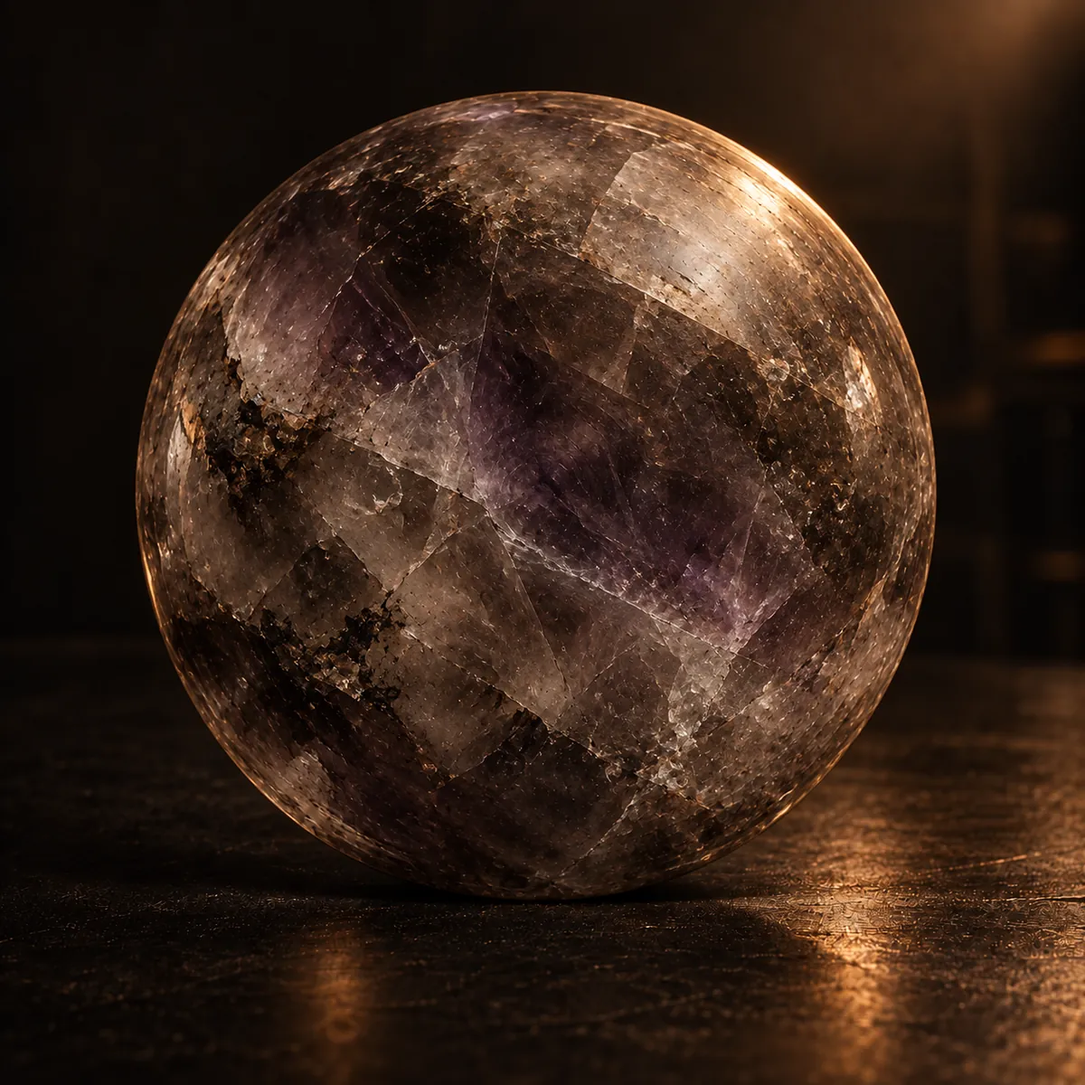
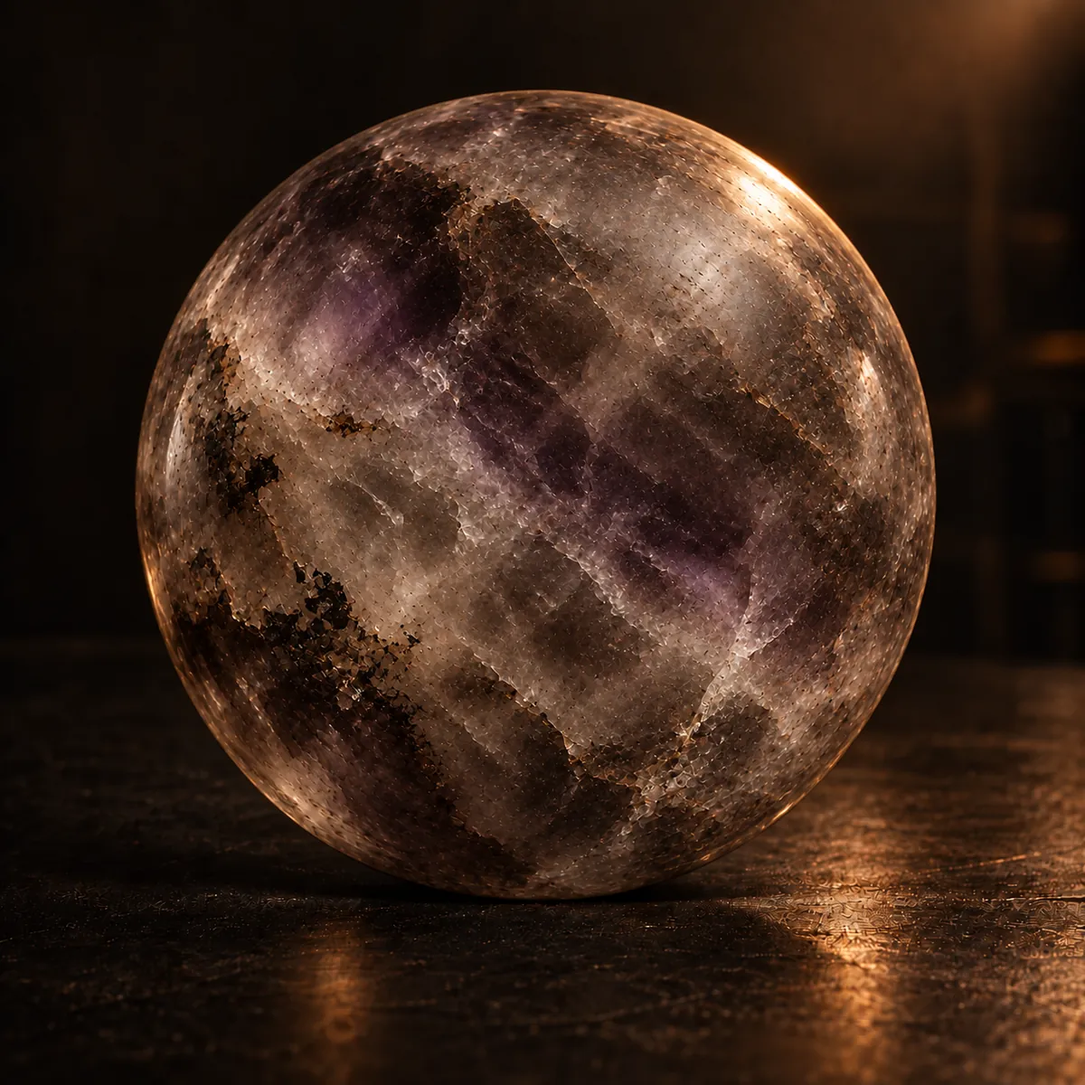
feat: projectExplorer bileşen EN/TR localization files ve showroom media assets eklendi

Changed region(s): [[0.1233, 0.0617, 0.8633, 0.8325], [0.7092, 0.8017, 0.8633, 0.8942], [0.925, 0.8325, 1.0, 0.8942]]

diff --git a/platform/components/Home/ProjectExplorer.module.css b/platform/components/Home/ProjectExplorer.module.css
@@ -1,155 +1,118 @@
 .home {
-  --color-text-primary: #f4ede3;
-  --color-text-secondary: #c8b9a7;
-  --color-background: #0b0a08;
-  --color-surface: #15110e;
-  --color-border: #352c21;
-  --ink: #f4ede3;
-  --muted: #c8b9a7;
-  --gold: #d5ad70;
-  background: var(--color-background);
+  --ink: #f3e9d8;
+  --muted: #c2b09b;
+  --amber: #d6ab6b;
   color: var(--ink);
+  background: #100d0a;
   font-family: var(--font-family-base);
 }
-.home h1, .home h2 { color: inherit; font-weight: 400; text-shadow: none; text-transform: none; }
-.home a:focus-visible, .home button:focus-visible, .home input:focus-visible {
-  outline: 2px solid var(--gold); outline-offset: 5px;
-}
-.home button { font: inherit; cursor: pointer; }
-.home ::selection { background: #d5ad70; color: #171009; }
+.home h1, .home h2 { color: inherit; text-shadow: none; text-transform: none; font-weight: 400; }
+.home a:focus-visible, .home button:focus-visible { outline: 2px solid #f2cc87; outline-offset: 5px; }
+.home ::selection { background: #d6ab6b; color: #100d0a; }
 :global(body):has(.journey) { overflow-x: clip; }
-.journey { --travel: 0; height: 420svh; position: relative; }
-.stage {
-  height: 100svh; min-height: 740px; position: sticky; top: 0;
-  overflow: clip; isolation: isolate; background: #100d0a;
-}
-.cosmos { position: absolute; inset: 0; z-index: -1; overflow: hidden; pointer-events: none; }
-.cosmos::before {
-  content: ''; position: absolute; inset: 0;
-  background: radial-gradient(ellipse at 66% 48%, #6c421e40, transparent 58%),
-    linear-gradient(135deg, #1e150e, #100d0a 48%, #19120c);
-}
-.nebula {
-  position: absolute; width: 130%; height: 65%; left: -15%; top: 16%;
-  background: url('/images/auris/hero-wave.webp') center / cover no-repeat;
-  opacity: .12; mix-blend-mode: screen;
-  mask-image: linear-gradient(transparent, black 40%, black 60%, transparent);
-  transform: rotate(-20deg) translateX(calc(var(--travel) * -5%));
-}
-.stars { position: absolute; inset: 0; width: 100%; height: 100%; transform: scale(calc(1 + var(--travel) * .12)); }
-.identity { position: absolute; top: 125px; left: 5vw; width: 35%; z-index: 15; pointer-events: none; }
-.identity h1 { font-family: var(--font-family-heading); font-size: clamp(38px, 4.8vw, 78px); letter-spacing: -.035em; line-height: 1.05; margin: 0 0 18px; }
-.identity p { color: var(--muted); max-width: 30ch; font-size: 17px; line-height: 1.55; }
-.skip { position: absolute; top: 128px; right: 5vw; z-index: 15; font-size: 13px; color: var(--muted); display: flex; align-items: center; gap: 12px; }
-.orbit { position: absolute; left: 29%; top: 16%; width: 70%; height: 73%; }
-.paths { width: 100%; height: 100%; position: absolute; inset: 0; fill: none; stroke: #b38a5040; stroke-width: .7; }
-.paths ellipse:nth-child(2) { stroke-dasharray: 2 9; opacity: .7; }
-.paths ellipse:nth-child(3) { opacity: .35; }
-.paths path { stroke: #c3a16a20; }
-.nucleus { position: absolute; left: 50%; top: 46%; width: clamp(105px, 15vw, 230px); aspect-ratio: 1; transform: translate(-50%, -50%); text-align: center; pointer-events: none; mix-blend-mode: screen; }
-.nucleus img { width: 100%; height: 100%; object-fit: contain; mix-blend-mode: screen; filter: grayscale(1) contrast(2) sepia(.5); opacity: .85; }
-.nucleus span { position: absolute; left: 0; right: 0; bottom: 0; font-size: 13px; color: #d1b887; letter-spacing: .04em; }
-.nucleusLight { position: absolute; inset: 8%; border-radius: 50%; background: radial-gradient(circle, #b9873c14, #a97b3110 45%, transparent 70%); border: 1px solid #ad854225; }
-.world { position: absolute; width: clamp(88px, 8.5vw, 132px); display: flex; flex-direction: column; align-items: center; color: var(--ink); text-decoration: none; -webkit-tap-highlight-color: transparent; }
-.planet { position: relative; width: 82%; aspect-ratio: 1; display: block; border-radius: 50%; background: var(--tone); isolation: isolate; box-shadow: 15px 20px 35px #0009; transition: filter .2s; }
-.surface {
-  position: absolute; inset: 0; border-radius: 50%; overflow: hidden;
-  background: url('/images/showroom/mineral.svg') 0 50% / 220% 100%;
-  mix-blend-mode: multiply;
-}
-.surface::before { content: ''; position: absolute; inset: 0; background: repeating-linear-gradient(168deg, transparent 0 10%, #33231350 13%, #f9eac533 15%, transparent 19%); }
-.planet[data-texture='cloud'] .surface { filter: contrast(.65); transform: rotate(35deg); }
-.planet[data-texture='mineral'] .surface { filter: contrast(1.7); }
-.planet[data-texture='sand'] .surface::before { transform: rotate(-30deg); opacity: .7; }
-.planet[data-texture='sound'] .surface::before { background: repeating-linear-gradient(172deg, #34200c60 0 4%, transparent 6% 13%, #f6d98b60 15% 17%); }
-.shade { position: absolute; inset: -1px; border-radius: 50%; background: radial-gradient(circle at 25% 22%, #fff7d965, transparent 40%, #120c0680 65%, #090704 91%); box-shadow: inset 2px 1px 3px #fff0c944, inset -6px -8px 12px #0008; }
-.planetRing { position: absolute; width: 170%; height: 52%; left: -35%; top: 27%; border: 7px double color-mix(in srgb, var(--tone), transparent 18%); border-radius: 50%; transform: rotate(-27deg); box-shadow: 0 3px 4px #0007; mask-image: linear-gradient(transparent 46%, black 49%); }
-.worldName { display: flex; align-items: center; justify-content: center; gap: 5px; white-space: nowrap; font-size: 14px; margin-top: 16px; text-shadow: 0 2px 6px #000; }
-.worldName svg { opacity: 0; transition: opacity .2s; }
-.world[data-selected='true'] .worldName { color: #f4d59e; }
-.world[data-selected='true'] .worldName svg, .world:hover .worldName svg { opacity: 1; }
-.world[data-selected='true'] .planet { outline: 1px solid #d5ad7090; outline-offset: 8px; }
-.world:hover .planet { filter: brightness(1.18); }
-.projectInfo { position: absolute; left: 5vw; bottom: 145px; width: min(29%, 370px); z-index: 16; }
-.projectHeading { display: flex; align-items: center; gap: 12px; margin-bottom: 17px; }
-.projectHeading h2 { font-family: var(--font-family-base); font-size: clamp(29px, 3vw, 46px); letter-spacing: -.025em; line-height: 1.1; margin: 0; }
-.projectDot { width: 7px; height: 7px; border-radius: 50%; flex-shrink: 0; }
-.projectInfo > p { font-size: 16px; line-height: 1.65; color: var(--muted); min-height: 80px; max-width: 36ch; }
-.openProject { display: inline-flex; align-items: center; gap: 28px; padding: 12px 0; margin-top: 14px; border-bottom: 1px solid #d5ad7080; font-size: 17px; }
-.controls { position: absolute; bottom: 30px; left: 5vw; right: 5vw; z-index: 20; display: flex; align-items: center; justify-content: space-between; gap: 24px; }
-.steering, .actions { display: flex; align-items: center; gap: 14px; }
-.controls button, .directoryTop button { background: transparent; color: var(--ink); border: 1px solid #b898623b; height: 44px; min-width: 44px; display: inline-flex; align-items: center; justify-content: center; gap: 10px; border-radius: 50%; }
-.controls button:hover { background: #d5ad7014; border-color: var(--gold); }
-.steering > span { font-size: 14px; min-width: 40px; text-align: center; font-variant-numeric: tabular-nums; }
-.actions button:last-child { padding: 0 18px; border-radius: 24px; font-size: 14px; }
-.scrollHint { font-size: 13px; color: var(--muted); display: flex; gap: 12px; align-items: center; }
-.directory { position: absolute; top: 105px; bottom: 95px; right: 4vw; width: min(440px, 92vw); padding: 28px; background: #19130cf5; border: 1px solid #6a5032; z-index: 30; overflow: auto; box-shadow: -20px 25px 80px #0009; border-radius: 8px; }
-.directoryTop { display: flex; align-items: center; justify-content: space-between; gap: 20px; }
-.directoryTop h2 { font-size: 27px; font-family: var(--font-family-base); }
-.search { margin-top: 24px; display: flex; gap: 10px; align-items: center; border-bottom: 1px solid #7b6243; padding: 12px 0; }
-.search input { width: 100%; min-width: 0; border: 0; background: transparent; color: var(--ink); font: inherit; font-size: 16px; caret-color: var(--gold); }
-.search input::placeholder { color: var(--muted); }
-.filters { display: flex; flex-wrap: wrap; gap: 6px 18px; margin-top: 18px; }
-.filters button { padding: 9px 0; border: 0; border-bottom: 1px solid transparent; background: transparent; color: var(--muted); font-size: 14px; }
-.filters button[aria-pressed='true'] { border-color: var(--gold); color: var(--ink); }
-.resultCount { font-size: 12px; color: var(--muted); margin: 20px 0 6px; }
-.directoryLinks a { display: flex; align-items: center; gap: 12px; padding: 17px 0; border-bottom: 1px solid #ffffff12; font-size: 19px; }
-.directoryLinks a > span { width: 12px; height: 12px; border-radius: 50%; }
-.directoryLinks a > svg { margin-left: auto; }
-.empty { padding: 24px 0; }
-.empty button { padding: 12px 16px; margin-top: 18px; color: #17110b; background: var(--gold); border: 0; border-radius: 4px; }
-.exit { padding: 80px 7vw 90px; display: flex; flex-direction: column; align-items: center; text-align: center; gap: 20px; background: linear-gradient(#100d0a, #19120c); scroll-margin-top: 100px; }
-.exit p, .exit > span { font-size: 15px; color: var(--muted); }
-.exit > a { display: inline-flex; align-items: center; gap: 25px; font-size: clamp(28px, 4vw, 54px); }
+.journey { height: 780svh; position: relative; }
+.stage { position: sticky; top: 0; height: 100svh; min-height: 650px; overflow: clip; isolation: isolate; background: #100d0a; }
+.studio, .studioHero, .studioDetail { position: absolute; inset: 0; }
+.studio { z-index: -2; pointer-events: none; }
+.studioHero img, .studioDetail img { object-fit: cover; object-position: center 58%; }
+.studioHero, .studioDetail { transform-origin: 64% 50%; }
+.studioDetail { opacity: 0; }
+.shade { position: absolute; z-index: -1; inset: 0; pointer-events: none; background: linear-gradient(90deg, #100d0aeb 0%, #100d0aa4 27%, transparent 59%), linear-gradient(0deg, #100d0af0 0%, transparent 20%, transparent 78%, #100d0a91 100%); }
+.intro { position: absolute; left: 5.4vw; top: clamp(132px, 19svh, 230px); max-width: 430px; z-index: 4; pointer-events: none; }
+.intro h1 { margin: 0; font-family: var(--font-family-heading); font-size: clamp(54px, 5vw, 72px); line-height: .98; letter-spacing: -.03em; }
+.intro p { margin-top: 23px; max-width: 25ch; font-size: clamp(19px, 1.8vw, 26px); line-height: 1.36; color: var(--ink); }
+.introLink { display: inline-flex; align-items: center; gap: 18px; pointer-events: auto; margin-top: 35px; padding: 9px 0; border-bottom: 1px solid #d6ab6b9c; font-size: 16px; }
+.introLink:hover { color: #f2cc87; }
+.orbit { position: absolute; inset: 0; z-index: 1; pointer-events: none; }
+.specimen { position: absolute; left: var(--x); top: var(--y); width: clamp(80px, 8.4vw, 124px); text-align: center; transform: translate(-50%, -50%); }
+.specimenOrb { display: block; position: relative; width: 100%; aspect-ratio: 1; padding: 0; border: 0; border-radius: 50%; overflow: hidden; background: #21170f; pointer-events: auto; cursor: pointer; transform-origin: center; }
+.specimenOrb img { object-fit: cover; object-position: center; border-radius: 50%; }
+.specimenOrb:hover { outline: 1px solid #f6d18f; outline-offset: 4px; }
+.specimenName { display: block; min-width: 82px; margin: 10px 0 0 50%; color: #efe1c8; font-size: 13px; line-height: 1.2; text-shadow: 0 2px 8px #000; pointer-events: none; white-space: normal; transform: translateX(-50%); }
+.feature { position: absolute; left: 5.4vw; top: 31svh; width: min(410px, 36vw); z-index: 4; }
+.feature h2 { font-family: var(--font-family-heading); font-size: clamp(48px, 5.2vw, 76px); letter-spacing: -.025em; line-height: 1; margin: 0 0 24px; }
+.feature > p { max-width: 35ch; font-size: clamp(17px, 1.45vw, 21px); line-height: 1.5; color: #e6d8c5; }
+.feature ul { display: flex; flex-wrap: wrap; gap: 7px 20px; margin: 25px 0 0; padding: 0; list-style: none; }
+.feature li { font-size: 13px; color: #c6ac87; }
+.feature li + li::before { content: '/'; margin-right: 20px; color: #785d40; }
+.featureActions { display: flex; align-items: center; flex-wrap: wrap; gap: 12px 25px; margin-top: 30px; }
+.featureActions a { display: inline-flex; align-items: center; gap: 25px; padding: 9px 0; font-size: 18px; border-bottom: 1px solid #d6ab6b; }
+.featureActions a:hover { color: #f2cc87; }
+.featureActions > span { color: #ab9276; font-size: 13px; }
+.rail { position: absolute; bottom: 28px; left: 5.4vw; right: 5.4vw; z-index: 5; display: flex; align-items: center; gap: clamp(14px, 2.3vw, 39px); overflow-x: auto; overflow-y: hidden; scrollbar-width: thin; scrollbar-color: #7b644a transparent; white-space: nowrap; padding: 17px 1px; }
+.rail button { flex: 0 0 auto; padding: 0 0 8px; border: 0; border-bottom: 1px solid transparent; background: transparent; color: #b9a992; font: inherit; font-size: 14px; cursor: pointer; }
+.rail button:hover, .rail button[aria-current='true'] { color: var(--ink); border-bottom-color: var(--amber); }
+.scrollCue { position: absolute; right: 5.4vw; bottom: 102px; z-index: 4; display: flex; gap: 11px; align-items: center; color: #c4ad8f; font-size: 14px; pointer-events: none; }
+.index { position: relative; overflow: clip; padding: 105px 5.4vw 110px; background: linear-gradient(180deg, #100d0a 0%, #16110c 55%, #100d0a 100%); scroll-margin-top: 96px; }
+.index::before { content: ''; position: absolute; z-index: 0; top: -5%; right: -22%; width: 72%; height: 60%; background: url('/images/showroom/tape-study.webp') center / cover no-repeat; opacity: .08; pointer-events: none; transform: rotate(-16deg); }
+.index > * { position: relative; z-index: 1; }
+.indexLead { display: flex; justify-content: space-between; align-items: end; gap: 40px; border-bottom: 1px solid #a98b6347; padding-bottom: 26px; }
+.indexLead h2 { font-family: var(--font-family-heading); font-size: clamp(43px, 5vw, 72px); letter-spacing: -.025em; line-height: 1.05; }
+.indexLead p { max-width: 31ch; color: var(--muted); font-size: 16px; line-height: 1.5; }
+.indexList { display: grid; grid-template-columns: repeat(2, minmax(0, 1fr)); column-gap: 7vw; }
+.indexList a { display: flex; min-width: 0; align-items: center; gap: 18px; padding: 24px 0; border-bottom: 1px solid #a98b6338; }
+.indexList a:hover { color: #f2cc87; }
+.indexImage { position: relative; flex: 0 0 62px; width: 62px; height: 62px; border: 1px solid #b795638a; border-radius: 50%; overflow: hidden; }
+.indexImage img { object-fit: cover; }
+.indexCopy { display: flex; flex-direction: column; gap: 3px; min-width: 0; }
+.indexCopy strong { font-size: 22px; font-weight: 400; line-height: 1.2; }
+.indexCopy > span { color: var(--muted); font-size: 14px; line-height: 1.4; }
+.indexList a > svg { margin-left: auto; flex-shrink: 0; color: #d6ab6b; }
+.musicBridge { display: flex; flex-direction: column; align-items: center; text-align: center; gap: 12px; padding-top: 120px; }
+.musicBridge p { color: var(--muted); font-size: 17px; }
+.musicBridge a { display: inline-flex; align-items: center; gap: 20px; font-family: var(--font-family-heading); font-size: clamp(30px, 4.5vw, 60px); border-bottom: 1px solid #aa824f; padding: 0 0 12px; }
+.musicBridge a:hover { color: #f2cc87; }
 .srOnly { position: absolute; width: 1px; height: 1px; padding: 0; margin: -1px; overflow: hidden; clip-path: inset(50%); white-space: nowrap; }
 
-@media (prefers-reduced-motion: no-preference) {
-  .surface { animation: surfaceDrift 65s linear infinite; }
-  .journey[data-paused='true'] .surface { animation-play-state: paused; }
-}
-@keyframes surfaceDrift { to { background-position: 220% 50%; } }
-@media (max-width: 1050px) {
-  .identity { width: 48%; }
-  .orbit { left: 23%; width: 77%; top: 20%; height: 66%; }
-  .world { width: 100px; }
-  .projectInfo { width: 30%; }
-  .scrollHint { display: none; }
+@media (max-width: 900px) {
+  .feature { top: 30svh; width: min(400px, 44vw); }
+  .indexList { column-gap: 3vw; }
 }
 @media (max-width: 700px) {
-  .journey { height: 340svh; }
-  .stage { min-height: 740px; }
-  .identity { top: 105px; left: 6vw; width: 88%; }
-  .identity h1 { font-size: clamp(30px, 8.7vw, 48px); margin-bottom: 10px; }
-  .identity p { font-size: 14px; max-width: none; }
-  .skip { top: 84px; right: 6vw; font-size: 11px; }
-  .orbit { left: 0; top: 24%; width: 100%; height: 45%; }
-  .world { width: 65px; }
-  .planet { width: 66%; }
-  .worldName { font-size: 11px; margin-top: 11px; gap: 2px; }
-  .worldName svg { width: 10px; }
-  .planetRing { border-width: 4px; }
-  .nucleus { width: 105px; }
-  .nucleus span { font-size: 10px; }
-  .projectInfo { left: 6vw; right: 6vw; width: auto; bottom: 95px; }
-  .projectHeading { margin-bottom: 10px; }
-  .projectHeading h2 { font-size: 29px; }
-  .projectInfo > p { font-size: 14px; line-height: 1.45; min-height: 40px; max-width: 48ch; }
-  .openProject { margin-top: 8px; padding: 8px 0; font-size: 15px; gap: 18px; }
-  .controls { bottom: 23px; left: 6vw; right: 6vw; gap: 10px; }
-  .steering, .actions { gap: 6px; }
-  .controls button { min-width: 38px; height: 40px; }
-  .actions button:last-child { padding: 0 12px; font-size: 12px; }
-  .steering > span { min-width: 31px; font-size: 12px; }
-  .directory { top: 95px; bottom: 82px; right: 4vw; padding: 22px; }
-  .exit { padding: 55px 6vw; }
+  .journey { height: 720svh; }
+  .stage { min-height: 650px; }
+  .studioHero img { object-position: 58% center; }
+  .studioDetail img { object-position: 67% center; }
+  .shade { background: linear-gradient(180deg, #100d0aab 0%, #100d0a67 26%, transparent 50%, #100d0aa3 75%, #100d0af0 100%), linear-gradient(90deg, #100d0a8f, transparent 80%); }
+  .intro { left: 6vw; top: 110px; max-width: 88vw; }
+  .intro h1 { font-size: clamp(32px, 9.4vw, 45px); }
+  .intro p { margin-top: 13px; font-size: 18px; max-width: 23ch; }
+  .introLink { margin-top: 18px; font-size: 14px; }
+  .specimen { left: var(--mobile-x); top: var(--mobile-y); width: clamp(54px, 15vw, 70px); }
+  .specimenName { font-size: 10px; margin-top: 5px; }
+  .feature { top: 130px; left: 6vw; width: 88vw; }
+  .feature h2 { font-size: clamp(36px, 10vw, 48px); margin-bottom: 16px; }
+  .feature > p { font-size: 18px; max-width: 32ch; }
+  .feature ul { margin-top: 16px; gap: 4px 15px; }
+  .feature li { font-size: 12px; }
+  .feature li + li::before { margin-right: 15px; }
+  .featureActions { margin-top: 18px; }
+  .featureActions a { font-size: 16px; }
+  .rail { left: 6vw; right: 0; bottom: 13px; gap: 24px; padding-right: 6vw; }
+  .rail button { font-size: 13px; }
+  .scrollCue { right: 6vw; bottom: 86px; font-size: 12px; }
+  .index { padding: 68px 6vw 80px; }
+  .indexLead { display: block; }
+  .indexLead p { margin-top: 12px; }
+  .indexList { display: block; }
+  .indexList a { gap: 13px; padding: 18px 0; }
+  .indexImage { width: 50px; height: 50px; flex-basis: 50px; }
+  .indexCopy strong { font-size: 19px; }
+  .indexCopy > span { font-size: 13px; }
+  .musicBridge { padding-top: 88px; }
 }
-@media (max-height: 739px) {
+@media (max-height: 649px) {
   .journey { height: auto; }
-  .stage { position: relative; height: 800px; }
+  .stage { position: relative; min-height: 680px; height: 680px; }
+  .feature, .scrollCue { display: none; }
+  .intro { top: 115px; }
+  .specimen { top: calc(var(--y) + 65px); }
+}
+@media (max-height: 649px) and (max-width: 700px) {
+  .specimen { top: calc(var(--mobile-y) + 85px); }
 }
 @media (prefers-reduced-motion: reduce) {
   .journey { height: auto; }
-  .stage { position: relative; }
-  .nebula, .stars { transform: none; }
-  .surface { animation: none; }
+  .stage { position: relative; min-height: 700px; height: 100svh; }
+  .feature, .scrollCue { display: none; }
 }

diff --git a/platform/components/Home/ProjectExplorer.tsx b/platform/components/Home/ProjectExplorer.tsx
@@ -8,14 +8,14 @@ import { PRODUCT_CATALOG, resolveProduct, type ProductEntry } from '@/config/pro
 import styles from './ProjectExplorer.module.css'
 
 const materials: Record<string, { image: string; x: number; y: number; mobileX: number; mobileY: number }> = {
-  'ai-music-detection': { image: '/images/showroom/world-auris.webp', x: 64, y: 28, mobileX: 19, mobileY: 38 },
-  'ml-toolkit': { image: '/images/showroom/tape-study.webp', x: 81, y: 43, mobileX: 47, mobileY: 30 },
-  'crown-fortune': { image: '/images/showroom/world-fortune.webp', x: 77, y: 68, mobileX: 78, mobileY: 38 },
-  'crown-dreams': { image: '/images/showroom/world-dreams.webp', x: 55, y: 69, mobileX: 84, mobileY: 57 },
-  'crown-commend': { image: '/images/showroom/world-commend.webp', x: 40, y: 48, mobileX: 68, mobileY: 71 },
-  'crown-vote': { image: '/images/showroom/world-votryx.webp', x: 46, y: 24, mobileX: 35, mobileY: 70 },
-  'noir-grain': { image: '/images/showroom/world-noir.webp', x: 89, y: 24, mobileX: 17, mobileY: 57 },
-  kognita: { image: '/images/showroom/world-kognita.webp', x: 32, y: 70, mobileX: 51, mobileY: 52 },
+  'ai-music-detection': { image: '/images/showroom/world-auris.webp', x: 64, y: 28, mobileX: 19, mobileY: 43 },
+  'ml-toolkit': { image: '/images/showroom/tape-study.webp', x: 81, y: 43, mobileX: 50, mobileY: 41 },
+  'crown-fortune': { image: '/images/showroom/world-fortune.webp', x: 77, y: 68, mobileX: 81, mobileY: 43 },
+  'crown-dreams': { image: '/images/showroom/world-dreams.webp', x: 55, y: 69, mobileX: 81, mobileY: 58 },
+  'crown-commend': { image: '/images/showroom/world-commend.webp', x: 40, y: 48, mobileX: 67, mobileY: 72 },
+  'crown-vote': { image: '/images/showroom/world-votryx.webp', x: 54, y: 18, mobileX: 34, mobileY: 72 },
+  'noir-grain': { image: '/images/showroom/world-noir.webp', x: 89, y: 24, mobileX: 19, mobileY: 58 },
+  kognita: { image: '/images/showroom/world-kognita.webp', x: 32, y: 70, mobileX: 50, mobileY: 57 },
 }
 
 const focalPoint = (index: number) => 0.18 + index * 0.1
@@ -40,11 +40,15 @@ function Specimen({ product, index, progress, onSelect, reducedMotion }: {
   )
   const opacity = useTransform(progress, value => {
     if (reducedMotion) {return 1}
-    const otherFocus = Math.max(...PRODUCT_CATALOG.map((_, itemIndex) => focusAt(value, itemIndex)))
+    const nearest = Math.max(0, Math.min(PRODUCT_CATALOG.length - 1, Math.round((value - 0.18) / 0.1)))
+    const otherFocus = focusAt(value, nearest)
     return Math.max(0, Math.min(1, 1 - otherFocus * 1.4 + focusAt(value, index) * 1.4))
   })
-  const labelOpacity = useTransform(focus, value => Math.max(0, 1 - value * 4))
   const pointerEvents = useTransform(focus, value => value > 0.13 ? 'none' : 'auto')
+  const labelOpacity = useTransform(progress, value => {
+    const nearest = Math.max(0, Math.min(PRODUCT_CATALOG.length - 1, Math.round((value - 0.18) / 0.1)))
+    return reducedMotion ? 1 : Math.max(0, 1 - focusAt(value, nearest) * 5)
+  })
   const position = {
     '--x': `${product.x}vw`, '--y': `${product.y}svh`,
     '--mobile-x': `${product.mobileX}vw`, '--mobile-y': `${product.mobileY}svh`,
@@ -54,10 +58,9 @@ function Specimen({ product, index, progress, onSelect, reducedMotion }: {
     <div className={styles.specimen} style={position}>
       <motion.button type="button" className={styles.specimenOrb} style={{ transform, opacity, pointerEvents }}
         onClick={() => onSelect(index)} aria-label={`${product.name}: ${product.title}`}>
-        <Image src={product.image} alt="" fill sizes="(max-width: 700px) 72px, 130px" />
+        <Image src={product.image} alt="" fill unoptimized />
       </motion.button>
-      <motion.span className={styles.specimenName} style={{ opacity }}>{product.name}</motion.span>
-      <motion.span className={styles.srOnly} style={{ opacity: labelOpacity }} aria-hidden="true" />
+      <motion.span className={styles.specimenName} style={{ opacity: labelOpacity }}>{product.name}</motion.span>
     </div>
   )
 }
@@ -69,12 +72,13 @@ export function ProjectExplorer() {
   const journeyRef = useRef<HTMLElement>(null)
   const railRef = useRef<HTMLElement>(null)
   const [active, setActive] = useState(-1)
+  const [featureVisible, setFeatureVisible] = useState(false)
   const { scrollYProgress } = useScroll({ target: journeyRef, offset: ['start start', 'end end'] })
   const products: Product[] = PRODUCT_CATALOG.map(entry => {
     const material = materials[entry.id]
     if (!material) {throw new Error(`Missing showroom image for ${entry.id}`)}
     const localized = resolveProduct(entry, t)
-    const name = entry.id === 'crown-vote' ? 'VOTRYX' : localized.title.split(' - ')[0]
+    const name = entry.id === 'crown-vote' ? 'VOTRYX' : entry.id === 'ml-toolkit' ? 'ML Toolkit' : localized.title.split(' - ')[0]
     return { ...entry, ...localized, ...material, name }
   })
 
@@ -86,12 +90,15 @@ export function ProjectExplorer() {
   const detailX = useTransform(scrollYProgress, [0.1, 1], ['4%', '-4%'])
   const introOpacity = useTransform(scrollYProgress, [0, 0.06, 0.145], [1, 1, 0])
   const introY = useTransform(scrollYProgress, [0, 0.15], [0, -45])
+  const introVisibility = useTransform(scrollYProgress, value => value >= 0.145 ? 'hidden' : 'visible')
   const activeOpacity = useTransform(scrollYProgress, value => active < 0 || reducedMotion ? 0 : focusAt(value, active))
 
   useMotionValueEvent(scrollYProgress, 'change', value => {
     if (reducedMotion) {return}
     const next = value < 0.115 ? -1 : Math.max(0, Math.min(products.length - 1, Math.round((value - 0.18) / 0.1)))
+    const visible = next >= 0 && focusAt(value, next) > 0.14
     setActive(previous => previous === next ? previous : next)
+    setFeatureVisible(previous => previous === visible ? previous : visible)
   })
 
   useEffect(() => {
@@ -129,7 +136,7 @@ export function ProjectExplorer() {
             </motion.div>
           </div>
           <div className={styles.shade} aria-hidden="true" />
-          <motion.div className={styles.intro} style={{ opacity: introOpacity, y: introY }}>
+          <motion.div className={styles.intro} style={{ opacity: introOpacity, y: introY, visibility: introVisibility }}>
             <h1 id="showroom-title">CrownCode</h1>
             <p>{en ? 'Independent work across sound, data and the web.' : 'Ses, veri ve web üzerine bağımsız çalışmalar.'}</p>
             <a href="#project-index" className={styles.introLink}>
@@ -142,7 +149,7 @@ export function ProjectExplorer() {
                 onSelect={select} reducedMotion={reducedMotion} />,
             )}
           </div>
-          {selected && <motion.article className={styles.feature} style={{ opacity: activeOpacity }} aria-live="off">
+          {selected && featureVisible && <motion.article className={styles.feature} style={{ opacity: activeOpacity }}>
             <h2>{selected.name}</h2>
             <p>{selected.showroomDescription}</p>
             {selected.features.length > 0 && <ul>{selected.features.slice(0, 3).map(feature => <li key={feature}>{feature}</li>)}</ul>}
@@ -162,7 +169,7 @@ export function ProjectExplorer() {
               </button>,
             )}
           </nav>
-          <div className={styles.scrollCue} aria-hidden="true"><ArrowDown size={16} /> {en ? 'Scroll into the work' : 'İşlerin içine kaydır'}</div>
+          <motion.div className={styles.scrollCue} style={{ opacity: introOpacity, visibility: introVisibility }} aria-hidden="true"><ArrowDown size={16} /> {en ? 'Scroll into the work' : 'İşlerin içine kaydır'}</motion.div>
         </div>
       </section>
 

diff --git a/platform/next-env.d.ts b/platform/next-env.d.ts
@@ -1,7 +1,7 @@
 /// <reference types="next" />
 /// <reference types="next/image-types/global" />
-import "./.next/dev/types/routes.d.ts";
-import "./.next/dev/types/root-params.d.ts";
+import "./.next/types/routes.d.ts";
+import "./.next/types/root-params.d.ts";
 
 // NOTE: This file should not be edited
 // see https://nextjs.org/docs/pages/api-reference/config/typescript for more information.

diff --git a/platform/ART-PROMPTS-b.md b/platform/ART-PROMPTS-b.md
@@ -1,0 +1,14 @@
+# CrownCode showroom specimen art
+
+Generated with the built-in `image_gen` tool. The source images are original generated PNGs. Final assets were converted to 1254 × 1254 WebP with Sharp at quality 80. The visual reference was the existing warm, dark mastering-studio photography in `public/images/showroom/crown-studio.webp` and `tape-study.webp`.
+
+Shared direction: one physically plausible circular object, centered and large with its full edge visible, resting on a near-black `#100d0a` scratched mastering-studio table. Soft amber light comes from the upper right. Preserve natural optics, slight wear, material texture, deep shadows, and restrained film grain. No text, logos, symbols, UI, neon, cosmic scenery, floating objects, or exaggerated effects.
+
+| Asset | Subject direction |
+| --- | --- |
+| `world-commend.webp` | Dark oxblood shellac audio disc with fine concentric and radial sound-like scratches, a shallow edge, minute dust and subtle wear. |
+| `world-votryx.webp` | Satin olive enamel mechanical voting dial, machined concentric ridges, stepped metal rim and restrained brass highlights, without markings. |
+| `world-noir.webp` | Empty dark coffee-glazed ceramic saucer, subtly speckled fired-clay surface and a thin irregular pale rim. |
+| `world-kognita.webp` | Smoked-glass optical lens in a slim dark bronze frame, faint abstract circuit-like hairline etchings and a subtly distorted view of the table through the glass. |
+
+All four assets were generated separately as photographic product specimens and inspected after WebP conversion.
